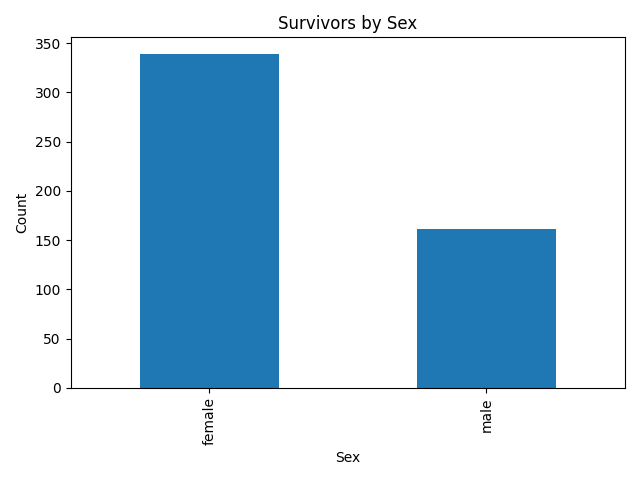
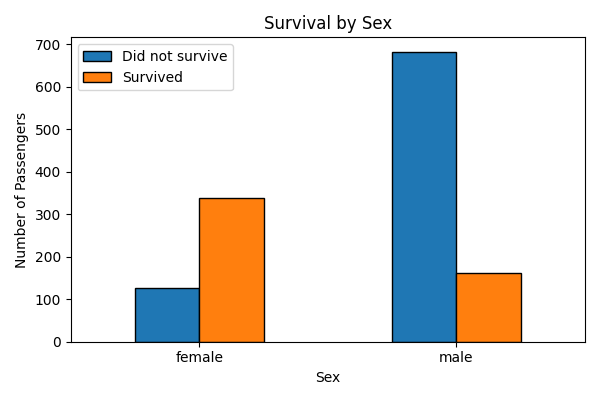
updated the html files

Changed region(s): [[0.0, 0.03, 0.99, 0.93], [0.63, 0.12, 0.9, 0.93], [0.51, 0.93, 0.57, 0.96]]

diff --git a/app/templates/titanic.html b/app/templates/titanic.html
@@ -1,29 +1,140 @@
 <!DOCTYPE html>
-<html>
+<html lang="en">
 <head>
-  <meta charset="utf-8" />
-  <meta name="viewport" content="width=device-width, initial-scale=1" />
+  <meta charset="utf-8"/>
+  <meta name="viewport" content="width=device-width, initial-scale=1"/>
   <title>Titanic Data</title>
   <link rel="stylesheet" href="https://cdn.simplecss.org/simple.min.css">
+  <style>
+    /* GLOBAL LEFT-ALIGN */
+    html, body {
+      margin: 0;
+      padding: 0;
+      text-align: left !important;
+      max-width: none !important;
+    }
+
+    /* HEADER BAR (unchanged) */
+    header.site-header {
+      display: flex;
+      justify-content: space-between;
+      align-items: center;
+      background: #222;
+      color: white;
+      padding: 1em 2em;
+    }
+    header.site-header h1 { margin: 0; font-size: 2rem; }
+    .header-controls { display: flex; align-items: center; }
+    nav.site-nav { display: flex; margin-right: 1.5em; }
+    nav.site-nav a {
+      color: white !important;
+      text-decoration: none;
+      font-weight: bold;
+      margin: 0 1em;
+      padding: 0.25em 0.5em;
+      font-size: 0.9rem;
+    }
+    nav.site-nav a:hover { text-decoration: underline; }
+    img.header-photo {
+      width: 80px; height: 80px;
+      object-fit: cover;
+      border-radius: 50%;
+      border: 2px solid #ddd;
+    }
+
+    /* MAIN CONTENT container */
+    main.content {
+      margin: 2em 0;
+    }
+    body, th, td { font-size: 0.85rem; }
+
+    /* FULL-BLEED HACK */
+    .bleed {
+      width: 100vw;
+      margin-left: calc(50% - 50vw);
+    }
+    /* indent the heading 2ch */
+    .bleed h2 {
+      font-size: 1.25rem;
+      margin: 1em 0 0.5em;
+      padding-left: 2ch;
+    }
+    /* table flush under the heading */
+    .bleed .data-table {
+      width: calc(100% - 2ch);
+      margin: 0;
+      margin-left: 2ch;
+      border-collapse: collapse;
+      table-layout: auto;
+    }
+    .bleed .data-table th {
+      background: #0077cc;
+      color: #fff;
+      padding: 0.5em;
+      text-align: left;
+      white-space: nowrap;
+    }
+    .bleed .data-table td {
+      padding: 0.5em;
+      border-top: 1px solid #ddd;
+      white-space: nowrap;
+    }
+    .bleed .data-table tr:nth-child(even) {
+      background: #f5f5f5;
+    }
+    /* chart likewise */
+    .bleed .chart-img {
+      display: block;
+      width: calc(50% - 2ch) !important;
+      max-width: none !important;
+      height: auto;
+      margin: 1em 0 0 2ch !important;
+    }
+
+    /* FOOTER (unchanged) */
+    footer.site-footer {
+      text-align: right;
+      padding: 1em 2em;
+      font-size: 0.8rem;
+      color: #666;
+      border-top: 1px solid #ddd;
+    }
+  </style>
 </head>
 <body>
-  <nav>
-    <a href="{{ url_for('hello') }}">Home</a>
-    <a href="{{ url_for('titanic') }}">Titanic</a>
-    <a href="https://github.com/YourGithubUsername">About</a>
-  </nav>
 
-  <main>
-    <h1>Titanic: First 5 Rows</h1>
-    <!-- Pandas table -->
-    {{ tables|safe }}
+  <header class="site-header">
+    <h1>Titanic Dataset Viewer</h1>
+    <div class="header-controls">
+      <nav class="site-nav">
+        <a href="{{ url_for('hello') }}">Home</a>
+        <a href="{{ url_for('titanic') }}">Titanic</a>
+        <a href="https://github.com/joric20" target="_blank">About</a>
+        <a href="https://www.hwr-berlin.de" target="_blank">Visit HWR Berlin</a>
+      </nav>
+      <img
+        src="{{ url_for('static', filename='images/myphoto.jpg') }}"
+        alt="Richard Quansah"
+        class="header-photo"
+      >
+    </div>
+  </header>
 
-    <h2>Survivors by Sex</h2>
-    <!-- chart image -->
-    <img src="{{ chart_url }}" alt="Survivors by Sex">
+  <main class="content">
+    <div class="bleed">
+      <h2>First 5 Rows</h2>
+      {{ tables|safe }}
+    </div>
+
+    <div class="bleed">
+      <h2>Survivors by Sex</h2>
+      <img src="{{ chart_url }}"
+           alt="Survivors by Sex"
+           class="chart-img">
+    </div>
   </main>
 
-  <footer>
+  <footer class="site-footer">
     &copy; 2025 Richard Quansah
   </footer>
 </body>

diff --git a/app/templates/hello.html b/app/templates/hello.html
@@ -1,41 +1,109 @@
 <!DOCTYPE html>
-<html>
+<html lang="en">
 <head>
-  <meta charset="utf-8" />
-  <meta name="viewport" content="width=device-width, initial-scale=1" />
-  <title>My first dynamic Website</title>
+  <meta charset="utf-8"/>
+  <meta name="viewport" content="width=device-width, initial-scale=1"/>
+  <title>Richard Quansah’s Portfolio</title>
   <link rel="stylesheet" href="https://cdn.simplecss.org/simple.min.css">
+  <style>
+    /* BACK TO SIMPLE.CSS DEFAULTS — let it center for us */
+    html, body {
+      /* no overrides here! */
+    }
+
+    /* HEADER BAR (unchanged) */
+    header.site-header {
+      display: flex;
+      justify-content: space-between;
+      align-items: center;
+      background: #222;
+      color: #fff;
+      padding: 1em 2em;
+    }
+    header.site-header h1 {
+      margin: 0;
+      font-size: 2rem;
+    }
+    .header-controls {
+      display: flex;
+      align-items: center;
+    }
+    nav.site-nav {
+      display: flex;
+      margin-right: 1.5em;
+    }
+    nav.site-nav a {
+      color: #fff !important;
+      text-decoration: none;
+      font-weight: bold;
+      margin: 0 1em;
+      padding: 0.25em 0.5em;
+    }
+    nav.site-nav a:hover {
+      text-decoration: underline;
+    }
+    img.header-photo {
+      width: 80px; height: 80px;
+      object-fit: cover;
+      border-radius: 50%;
+      border: 2px solid #ddd;
+    }
+
+    /* MAIN CONTENT — centered by Simple.css, with a max-width and padding */
+    main.content {
+      margin: 2em auto;         /* auto-margin centers this block */
+      max-width: 60ch;          /* roughly 60 characters wide */
+      padding: 0 1em;           /* some breathing room on small screens */
+    }
+    ul.visit-list {
+      list-style: disc inside;
+      padding: 0;
+      margin-bottom: 2em;
+    }
+    ul.visit-list li {
+      margin: 0.25em 0;
+    }
+
+    /* FOOTER — centered text at bottom */
+    footer.site-footer {
+      text-align: center;
+      padding: 1em 0;
+      font-size: 0.9rem;
+      color: #666;
+      border-top: 1px solid #ddd;
+    }
+  </style>
 </head>
 <body>
-  <!-- navigation menu -->
-  <nav>
-    <a href="{{ url_for('hello') }}">Home</a>
-    <a href="{{ url_for('titanic') }}">Titanic</a>
-    <a href="https://github.com/YourGithubUsername">About</a>
-  </nav>
 
-  <main>
-    <h1>I have been seen {{ count }} times.</h1>
-    <ul>
+  <header class="site-header">
+    <h1>Welcome to Richard Quansah’s Portfolio Space</h1>
+    <div class="header-controls">
+      <nav class="site-nav">
+        <a href="{{ url_for('hello') }}">Home</a>
+        <a href="{{ url_for('titanic') }}">Titanic</a>
+        <a href="https://github.com/joric20" target="_blank">About</a>
+        <a href="https://www.hwr-berlin.de" target="_blank">Visit HWR Berlin</a>
+      </nav>
+      <img
+        src="{{ url_for('static', filename='images/myphoto.jpg') }}"
+        alt="Richard Quansah"
+        class="header-photo"
+      >
+    </div>
+  </header>
+
+  <main class="content">
+    <h2>I have been seen {{ count }} times.</h2>
+    <ul class="visit-list">
       {% for i in range(1, count+1) %}
-        <li>{{ i }}: Hello {{ name }}! </li>
+        <li>{{ i }}: Hello {{ name }}!</li>
       {% endfor %}
     </ul>
-
-    <!-- link to HWR Berlin -->
-    <p><a href="https://www.hwr-berlin.de" target="_blank">
-      Visit HWR Berlin homepage
-    </a></p>
-
-    <!-- your image -->
-    <img src="{{ url_for('static', filename='images/myphoto.jpg') }}"
-         alt="My photo" style="max-width:200px;">
-
   </main>
 
-  <!-- footer -->
-  <footer>
-    &copy; 2025 Your Name Here
+  <footer class="site-footer">
+    &copy; 2025 Richard Quansah
   </footer>
 </body>
 </html>

diff --git a/app/app.py b/app/app.py
@@ -25,26 +25,40 @@ def titanic():
     df = pd.read_csv(csv_path)
 
     # 2) prepare first 5 rows HTML
-    table_html = df.head(3).to_html(classes='data', index=False)
+    table_html = df.head(5).to_html(
+        classes='data-table',
+        index=False,
+        border=0
+    )
 
-    # 3) compute survivors by sex
-    survivors = df[df['survived'] == 1]['sex'].value_counts()
+    # 3) compute survivors AND non-survivors by sex
+    survival_counts = pd.crosstab(df['sex'], df['survived'])
+    survival_counts.columns = ['Did not survive', 'Survived']
 
-    # 4) generate bar chart
-    img_path = os.path.join(app.root_path, 'static', 'images', 'titanic_survival.png')
-    plt.figure()
-    survivors.plot(kind='bar', title='Survivors by Sex')
-    plt.xlabel('Sex')
-    plt.ylabel('Count')
+    # 4) generate grouped bar chart
+    img_path = os.path.join(
+        app.root_path, 'static', 'images', 'titanic_survival.png'
+    )
+    plt.figure(figsize=(6,4))
+    ax = survival_counts.plot(
+        kind='bar',
+        rot=0,
+        figsize=(6,4),
+        edgecolor='black'
+    )
+    ax.set_title('Survival by Sex')
+    ax.set_xlabel('Sex')
+    ax.set_ylabel('Number of Passengers')
+    ax.legend(title='')
     plt.tight_layout()
-    plt.savefig(img_path)
+    plt.savefig(img_path, dpi=100)
     plt.close()
 
-    # 5) render
+    # 5) render template, passing table_html as "tables"
     return render_template(
-      'titanic.html',
-      tables=table_html,
-      chart_url=url_for('static', filename='images/titanic_survival.png')
+        'titanic.html',
+        tables=table_html,
+        chart_url=url_for('static', filename='images/titanic_survival.png')
     )
 
 if __name__ == "__main__":
